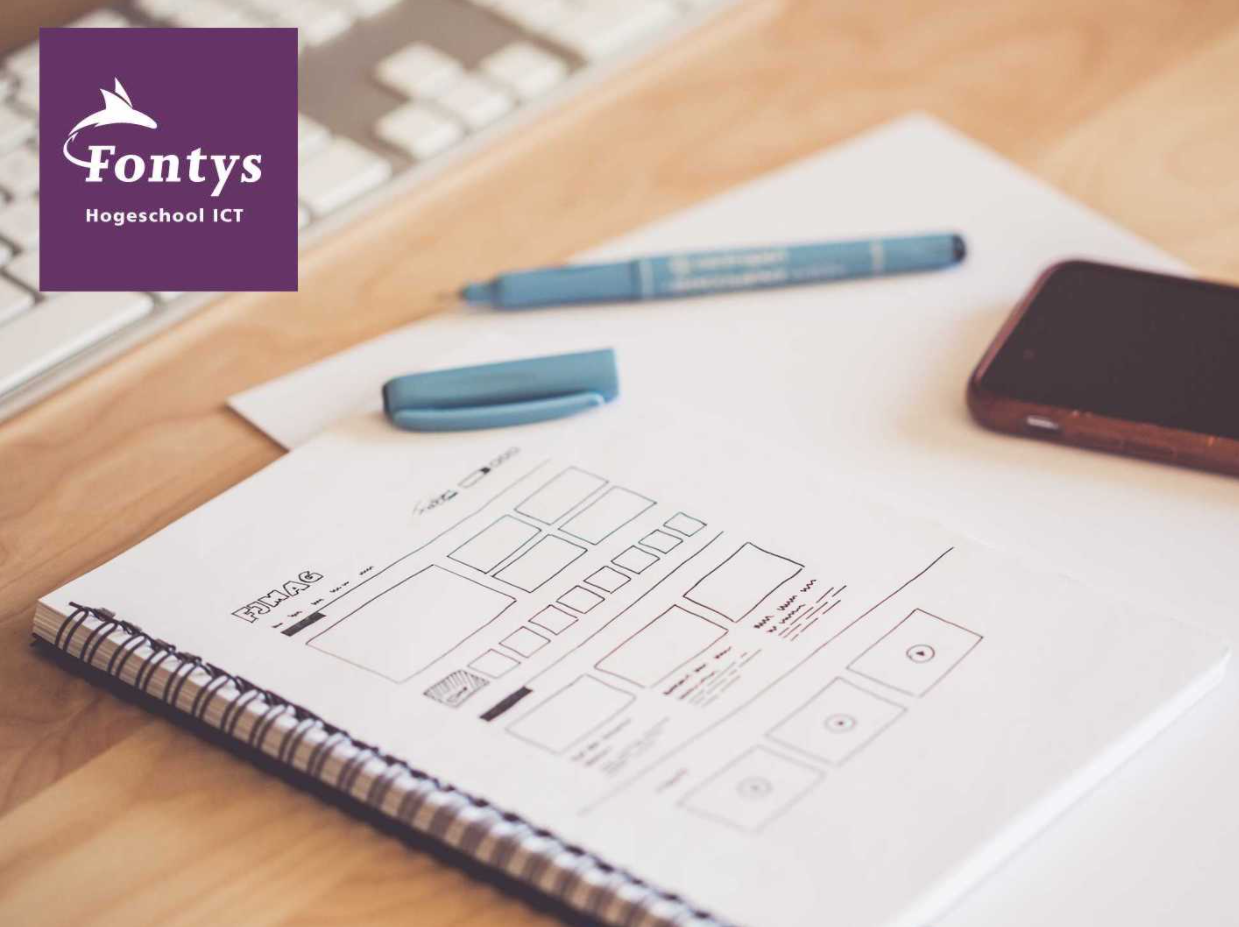
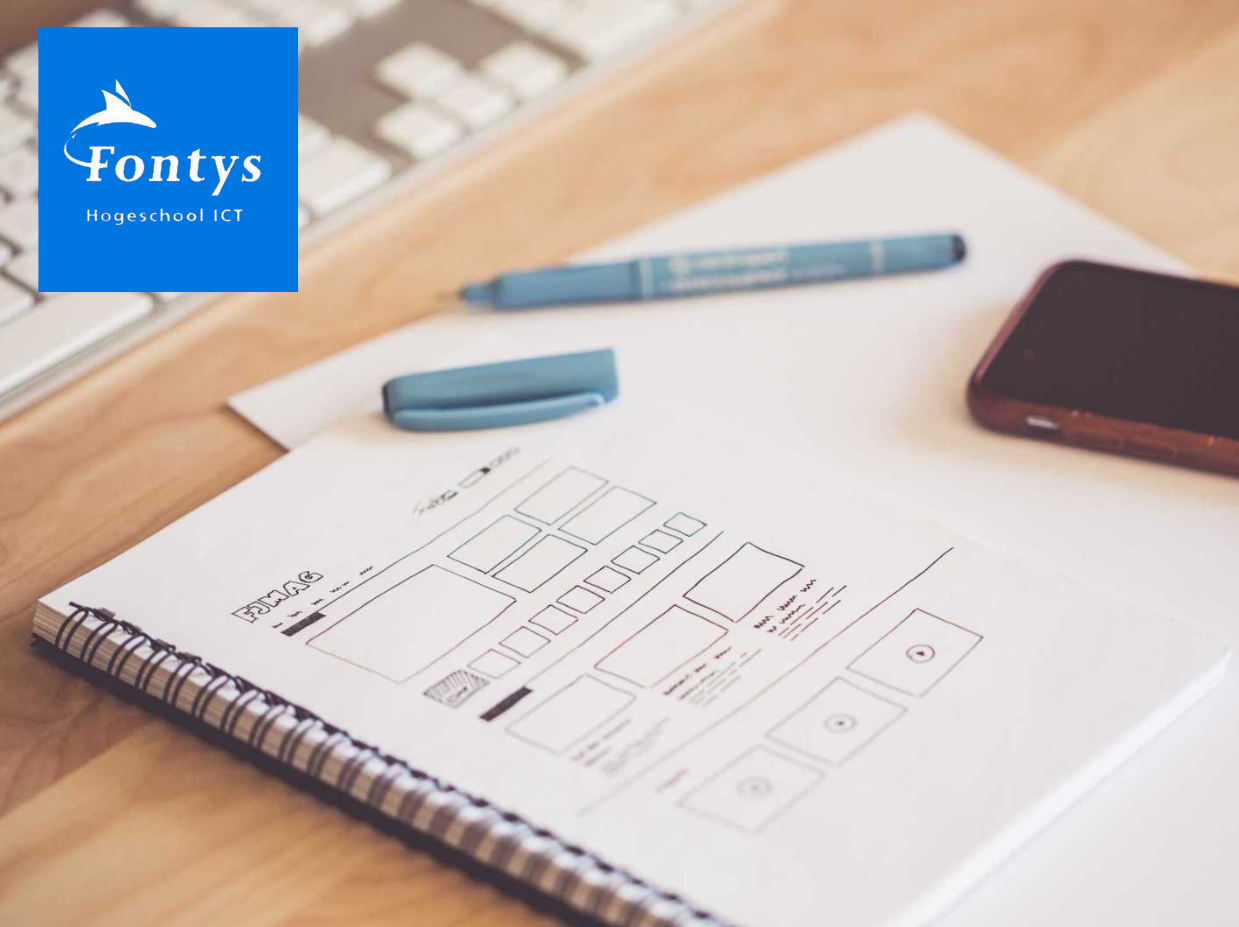
:sparkles: Login page style update

Changed region(s): [[0.0307, 0.0302, 0.2454, 0.3323]]

diff --git a/src/style/Button.css b/src/style/Button.css
@@ -1,13 +1,13 @@
 .btn-refactoring{
     align-items: center;
-    background-color: rgb(102, 51, 102);
+    background-color: #0076E0;
     margin-bottom: 1px;
     outline:auto;
     align-self: flex-end;
 }
 
 .button-style{
-    background-color: rgb(102, 51, 102);
+    background-color: #0076E0;
     border-color: rgb(0, 0, 0);
 }
 
@@ -17,8 +17,8 @@
 }
 
 .button-card{
-    background-color: rgb(102, 51, 102);
-    outline: rgb(102, 51, 102);
+    background-color: #0076E0;
+    outline: #0076E0;
     margin-bottom: 1px;
     align-self: flex-end;
 }
